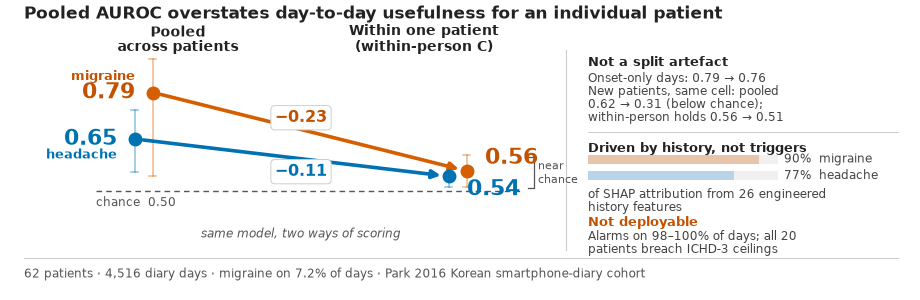
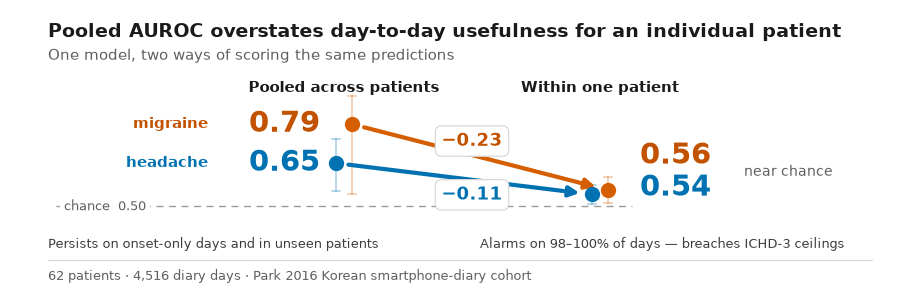
grid

Changed region(s): [[0.0304, 0.18, 0.9739, 0.96], [0.0, 0.0, 0.913, 0.21]]

diff --git a/docs/methodAndResults_diagramCreatorScripts/graphical_abstract.py b/docs/methodAndResults_diagramCreatorScripts/graphical_abstract.py
@@ -3,171 +3,128 @@
 JHP specification: 920 x 300 px, <=150 KB, JPG/PNG/SVG, file name "Graphical Abstract"
 (https://thejournalofheadacheandpain.biomedcentral.com/graphical-abstracts).
 
-Design follows "Ten simple rules for designing graphical abstracts"
-(PLoS Comput Biol; PMC10833524): one load-bearing claim in the title, a single
-hero comparison read left-to-right, arrows as the connector that carries the
-message, and no axis furniture that the reader does not need.
+One claim, drawn: the same model scored two ways. Pooled AUROC (across patients)
+collapses to a near-chance within-person C-statistic. The arrow is the finding;
+everything else is support.
 
-Layout:
-  Hero (left, ~560 px): paired slopegraph, pooled AUROC -> within-person C, one
-    slope per outcome. The arrow IS the finding. Endpoint CIs are offset capped
-    whiskers so the two series never merge into a false axis spine. Series names
-    are set in their own colour and act as the legend.
-  Evidence rail (right, ~330 px): three supporting blocks in reading order --
-    the gap is not a split artefact, what drives the model, why it is not
-    deployable. Deliberately de-saturated: at thumbnail size the rail must not
-    out-shout the hero.
+Layout discipline: every coordinate is a multiple of the 8 px grid unit G, and the
+named Y_/X_ constants below are the only positions used. Earlier revisions placed
+elements by eye and read as noise -- shared baselines and even gaps are most of what
+makes a figure look deliberate. Keep new elements on the grid.
 
-Numbers are traceable to article.tex / supplementary_body.tex; see the
-verification notes in the paper working files before editing any value.
+Two constraints that are correctness, not taste:
+  * Orange TEXT uses MIG_T (#C25100, 4.70:1 on white). #D55E00 is 3.87:1 and fails
+    the 4.5:1 WCAG floor; it is fine for marks and lines, not for type.
+  * The within-person values are pinned ABOVE the chance line (18*G / 14*G). Placed
+    by data offset, 0.54 renders below y(0.50) and reads as below-chance, which is
+    false.
+
+Numbers trace to article.tex / supplementary_body.tex; see graphical_abstract_review.md
+in the paper working tree before changing any value.
 """
 import os
-import sys
 from pathlib import Path
 
-import matplotlib
-matplotlib.use("Agg")
+import matplotlib; matplotlib.use("Agg")
 import matplotlib.pyplot as plt
 from matplotlib.patches import FancyArrowPatch, Rectangle
+import sys
+
 from PIL import Image
 
 HERE = Path(__file__).resolve().parent
 
-# Okabe-Ito vermillion / blue. MIG_T is the darkened orange used for TEXT only:
-# #D55E00 is 3.87:1 on white and fails the 4.5:1 WCAG floor; #C25100 is 4.70:1.
 MIG, HEA = "#D55E00", "#0072B2"
 MIG_T = "#C25100"
-INK, SOFT, FAINT, GREY = "#222222", "#444444", "#cccccc", "#555555"
-MUTE_M, MUTE_H = "#e8c4ad", "#b9d4e8"
+INK, BODY, GREY, FAINT = "#1a1a1a", "#3d3d3d", "#5f5f5f", "#d8d8d8"
 
 W, H = 920, 300
+G  = 8                       # grid unit; every coordinate below is a multiple
+M  = 6*G                     # 48  page margin, shared by title/body/footer
 
-# Pooled AUROC and within-person C-statistic, both with patient-CLUSTER CIs
-# (not patient-day). article.tex Table 2.
-MIGRAINE = dict(pooled=0.791, pooled_ci=(0.544, 0.890),
-                within=0.558, within_ci=(0.511, 0.604), delta="0.23")
-HEADACHE = dict(pooled=0.653, pooled_ci=(0.555, 0.740),
-                within=0.542, within_ci=(0.509, 0.575), delta="0.11")
+# --- vertical rhythm, top-down, in whole units -------------------------------
+Y_TITLE = H - 4*G            # 268
+Y_SUB   = Y_TITLE - 3*G      # 244
+Y_HEAD  = Y_SUB   - 4*G      # 212
+PY1     = 23*G               # 184  top of scale (0.82)
+PY0     = 11*G               # 88   bottom of scale (0.48)
+Y_NOTE  = 7*G                # 56
+Y_RULE  = 5*G                # 40
+Y_FOOT  = 3*G                # 24
 
+# --- horizontal grid ---------------------------------------------------------
+X_NAME  = 26*G               # 208  right edge of series name
+X_VAL0  = 40*G               # 320  right edge of pooled value
+HX0     = 43*G               # 344  pooled marker
+HX1     = 75*G               # 600  within marker
+X_VAL1  = 80*G               # 640  left edge of within value
+X_NEAR  = 93*G               # 744  left edge of "near chance"
 
-def main() -> None:
-    fig = plt.figure(figsize=(W / 100, H / 100), dpi=100)
-    ax = fig.add_axes([0, 0, 1, 1])
-    ax.set_xlim(0, W)
-    ax.set_ylim(0, H)
-    ax.axis("off")
-    ax.add_patch(Rectangle((0, 0), W, H, fc="white", ec="none", zorder=-10))
+A0, A1 = 0.48, 0.82
+def y(v): return PY0 + (v-A0)/(A1-A0)*(PY1-PY0)
 
-    ax.text(24, 286,
-            "Pooled AUROC overstates day-to-day usefulness for an individual patient",
-            fontsize=12.5, fontweight="bold", color=INK, va="center", ha="left")
+fig = plt.figure(figsize=(W/100, H/100), dpi=100)
+ax = fig.add_axes([0,0,1,1]); ax.set_xlim(0,W); ax.set_ylim(0,H); ax.axis("off")
+ax.add_patch(Rectangle((0,0),W,H,fc="white",ec="none",zorder=-10))
 
-    HX0, HX1 = 178, 424
-    PY0, PY1, A0, A1 = 96, 224, 0.46, 0.84
+ax.text(M, Y_TITLE, "Pooled AUROC overstates day-to-day usefulness for an individual patient",
+        fontsize=14, fontweight="bold", color=INK, va="center", ha="left")
+ax.text(M, Y_SUB, "One model, two ways of scoring the same predictions",
+        fontsize=10.5, color=GREY, va="center", ha="left")
 
-    def y(v):
-        return PY0 + (v - A0) / (A1 - A0) * (PY1 - PY0)
+ax.text(HX0, Y_HEAD, "Pooled across patients", fontsize=11, fontweight="bold",
+        color=INK, ha="center", va="center")
+ax.text(HX1, Y_HEAD, "Within one patient", fontsize=11, fontweight="bold",
+        color=INK, ha="center", va="center")
 
-    # Chance is a LINE, not a shaded band: a band placed 0.558 outside and 0.542
-    # inside, inventing a categorical split between two near-identical results.
-    ax.plot([96, 520], [y(0.5)] * 2, ls=(0, (4, 3)), lw=1.0, color=GREY, zorder=1)
-    ax.text(96, y(0.5) - 12, "chance  0.50", fontsize=8.5, color=GREY,
-            va="center", ha="left")
+ax.plot([M+G, 79*G],[y(0.5)]*2, ls=(0,(5,4)), lw=1.0, color="#9a9a9a", zorder=1)
+ax.text(M+2*G, y(0.5), "chance  0.50", fontsize=9.5, color=GREY, va="center", ha="left",
+        bbox=dict(boxstyle="square,pad=0.3", fc="white", ec="none"))
 
-    # Headers name the two scoring METHODS. Without this the slope reads as a
-    # change over time rather than two ways of scoring one model.
-    ax.text(HX0, 261, "Pooled\nacross patients", fontsize=10, fontweight="bold",
-            color=INK, ha="center", va="center", linespacing=1.15)
-    ax.text(HX1, 261, "Within one patient\n(within-person C)", fontsize=10,
-            fontweight="bold", color=INK, ha="center", va="center", linespacing=1.15)
-    ax.text((HX0 + HX1) / 2, 66, "same model, two ways of scoring", fontsize=8.5,
-            style="italic", color=GREY, ha="center", va="center")
+DATA = [("migraine", MIG, MIG_T, 0.791,(0.544,0.890), 0.558,(0.511,0.604), "0.23",  1),
+        ("headache", HEA, HEA,   0.653,(0.555,0.740), 0.542,(0.509,0.575), "0.11", -1)]
+for name,c,ct,p,pci,w,wci,d,side in DATA:
+    xo = side*G                                   # one grid unit, not an eyeball
+    for xx,ci in ((HX0+xo,pci),(HX1+xo,wci)):
+        ax.plot([xx,xx],[y(ci[0]),y(ci[1])], lw=1.2, color=c, alpha=.33, zorder=2)
+        for e in ci: ax.plot([xx-4,xx+4],[y(e)]*2, lw=1.2, color=c, alpha=.33, zorder=2)
+    ax.add_patch(FancyArrowPatch((HX0+xo,y(p)),(HX1+xo,y(w)), arrowstyle="-|>",
+                 mutation_scale=15, lw=3.0, color=c, shrinkA=9, shrinkB=9, zorder=3))
+    for xx,v in ((HX0+xo,p),(HX1+xo,w)):
+        ax.plot([xx],[y(v)],"o",ms=10,color=c,zorder=4)
+    ax.text(X_VAL0, y(p), f"{p:.2f}", fontsize=21, fontweight="bold", color=ct,
+            ha="right", va="center")
+    ax.text(X_NAME, y(p), name, fontsize=10.5, fontweight="bold", color=ct,
+            ha="right", va="center")
+    ax.text(X_VAL1, 18*G if side > 0 else 14*G, f"{w:.2f}", fontsize=21,
+            fontweight="bold", color=ct, ha="left", va="center")
+    ax.text((HX0+HX1)/2, (y(p)+y(w))/2 + side*2*G, f"−{d}", fontsize=13, fontweight="bold",
+            color=ct, ha="center", va="center",
+            bbox=dict(boxstyle="round,pad=0.34", fc="white", ec=FAINT, lw=0.9))
 
-    series = [("migraine", MIG, MIG_T, MIGRAINE, 1),
-              ("headache", HEA, HEA, HEADACHE, -1)]
-    for name, c, ct, d, side in series:
-        xo = 9 * side  # per-series offset so whiskers and markers never merge
-        for xx, val, ci in ((HX0 - 34 + xo, d["pooled"], d["pooled_ci"]),
-                            (HX1 + 34 + xo, d["within"], d["within_ci"])):
-            ax.plot([xx, xx], [y(ci[0]), y(ci[1])], lw=1.1, color=c, alpha=.45, zorder=2)
-            for e in ci:
-                ax.plot([xx - 3.5, xx + 3.5], [y(e)] * 2, lw=1.1, color=c, alpha=.45, zorder=2)
-        ax.add_patch(FancyArrowPatch((HX0 - 34 + xo, y(d["pooled"])),
-                                     (HX1 + 34 + xo, y(d["within"])),
-                                     arrowstyle="-|>", mutation_scale=12, lw=2.6,
-                                     color=c, shrinkA=6, shrinkB=6, zorder=3))
-        ax.plot([HX0 - 34 + xo], [y(d["pooled"])], "o", ms=9, color=c, zorder=4)
-        ax.plot([HX1 + 34 + xo], [y(d["within"])], "o", ms=9, color=c, zorder=4)
-        ax.text(HX0 - 52 + xo, y(d["pooled"]), f"{d['pooled']:.2f}", fontsize=16,
-                fontweight="bold", color=ct, ha="right", va="center")
-        ax.text(HX1 + 52 + xo, y(d["within"]) + 13 * side, f"{d['within']:.2f}",
-                fontsize=16, fontweight="bold", color=ct, ha="left", va="center")
-        ax.text(HX0 - 52 + xo, y(d["pooled"]) + 16 * side, name, fontsize=9,
-                fontweight="bold", color=ct, ha="right", va="center")
-        mx, my = (HX0 + HX1) / 2, (y(d["pooled"]) + y(d["within"])) / 2
-        ax.text(mx, my + 14 * side, f"−{d['delta']}", fontsize=11.5, fontweight="bold",
-                color=ct, ha="center", va="center",
-                bbox=dict(boxstyle="round,pad=0.26", fc="white", ec=FAINT, lw=0.7))
+ax.text(X_NEAR, 16*G, "near chance", fontsize=10, color=GREY, va="center", ha="left")
 
-    # One bracket groups BOTH endpoints into a single conclusion.
-    gx = HX1 + 104
-    ax.plot([gx, gx + 6, gx + 6, gx],
-            [y(0.508), y(0.508), y(0.60), y(0.60)], lw=0.9, color=GREY)
-    ax.text(gx + 10, y(0.554), "near\nchance", fontsize=8, color=GREY,
-            va="center", ha="left", linespacing=1.1)
+# two aligned facts, not one prose sentence
+ax.text(M,    Y_NOTE, "Persists on onset-only days and in unseen patients",
+        fontsize=9.5, color=BODY, va="center", ha="left")
+ax.text(60*G, Y_NOTE, "Alarms on 98–100% of days — breaches ICHD-3 ceilings",
+        fontsize=9.5, color=BODY, va="center", ha="left")
 
-    RX = 588
-    ax.plot([RX - 22, RX - 22], [50, 250], lw=0.8, color=FAINT)
-    ax.text(RX, 244, "Not a split artefact", fontsize=9.5, fontweight="bold",
-            color=INK, va="top")
-    for i, t in enumerate(["Onset-only days: 0.79 → 0.76",
-                           "New patients, same cell: pooled",
-                           "0.62 → 0.31 (below chance);",
-                           "within-person holds 0.56 → 0.51"]):
-        ax.text(RX, 228 - i * 13, t, fontsize=8.5, color=SOFT, va="top")
-    ax.plot([RX, 898], [168] * 2, lw=0.7, color=FAINT)
+ax.plot([M, W-M],[Y_RULE]*2, lw=0.9, color=FAINT)
+ax.text(M, Y_FOOT, "62 patients · 4,516 diary days · Park 2016 Korean smartphone-diary cohort",
+        fontsize=9.5, color=GREY, va="center", ha="left")
 
-    ax.text(RX, 158, "Driven by history, not triggers", fontsize=9.5,
-            fontweight="bold", color=INK, va="top")
-    # Bars are de-saturated on purpose: saturated 90%/77% bars were the only
-    # colour on the right at thumbnail size, so a skimmer read "0.79 and 90% =
-    # good" and inverted the message.
-    for i, (frac, cm, lab) in enumerate([(0.90, MUTE_M, "90%  migraine"),
-                                         (0.77, MUTE_H, "77%  headache")]):
-        yy = 136 - i * 16
-        ax.add_patch(Rectangle((RX, yy), 190, 9, fc="#f0f0f0", ec="none"))
-        ax.add_patch(Rectangle((RX, yy), 190 * frac, 9, fc=cm, ec="none"))
-        ax.text(RX + 196, yy + 4.5, lab, fontsize=8.5, color=SOFT, va="center")
-    ax.text(RX, 112, "of SHAP attribution from 26 engineered", fontsize=8.5,
-            color=SOFT, va="top")
-    ax.text(RX, 99, "history features", fontsize=8.5, color=SOFT, va="top")
+out_dir = HERE / "figures"
+out_dir.mkdir(parents=True, exist_ok=True)
+out_png = out_dir / "graphical_abstract.png"
+fig.savefig(out_png, dpi=100, bbox_inches=None, facecolor="white")
+plt.close(fig)
 
-    ax.text(RX, 84, "Not deployable", fontsize=9.5, fontweight="bold",
-            color=MIG_T, va="top")
-    ax.text(RX, 70, "Alarms on 98–100% of days; all 20", fontsize=8.5, color=SOFT, va="top")
-    ax.text(RX, 57, "patients breach ICHD-3 ceilings", fontsize=8.5, color=SOFT, va="top")
-
-    ax.plot([24, 898], [42] * 2, lw=0.8, color=FAINT)
-    ax.text(24, 26,
-            "62 patients · 4,516 diary days · migraine on 7.2% of days · "
-            "Park 2016 Korean smartphone-diary cohort",
-            fontsize=8.5, color=GREY, va="center", ha="left")
-
-    out_dir = HERE / "figures"
-    out_dir.mkdir(parents=True, exist_ok=True)
-    out_png = out_dir / "graphical_abstract.png"
-    fig.savefig(out_png, dpi=100, bbox_inches=None, facecolor="white")
-    plt.close(fig)
-
-    with Image.open(out_png) as im:
-        w, h = im.size
-        im.convert("RGB").save(out_png, optimize=True)
-    size_kb = os.path.getsize(out_png) / 1024.0
-    print(f"saved {out_png.name}  {w}x{h} px, {size_kb:.1f} KB")
-    if (w, h) != (W, H) or size_kb > 150:
-        print("WARNING: violates JHP spec (920x300 px, <=150 KB)", file=sys.stderr)
-        sys.exit(1)
-
-
-if __name__ == "__main__":
-    main()
+with Image.open(out_png) as im:
+    iw, ih = im.size
+    im.convert("RGB").save(out_png, optimize=True)
+size_kb = os.path.getsize(out_png) / 1024.0
+print(f"saved {out_png.name}  {iw}x{ih} px, {size_kb:.1f} KB")
+if (iw, ih) != (W, H) or size_kb > 150:
+    print("WARNING: violates JHP spec (920x300 px, <=150 KB)", file=sys.stderr)
+    sys.exit(1)
